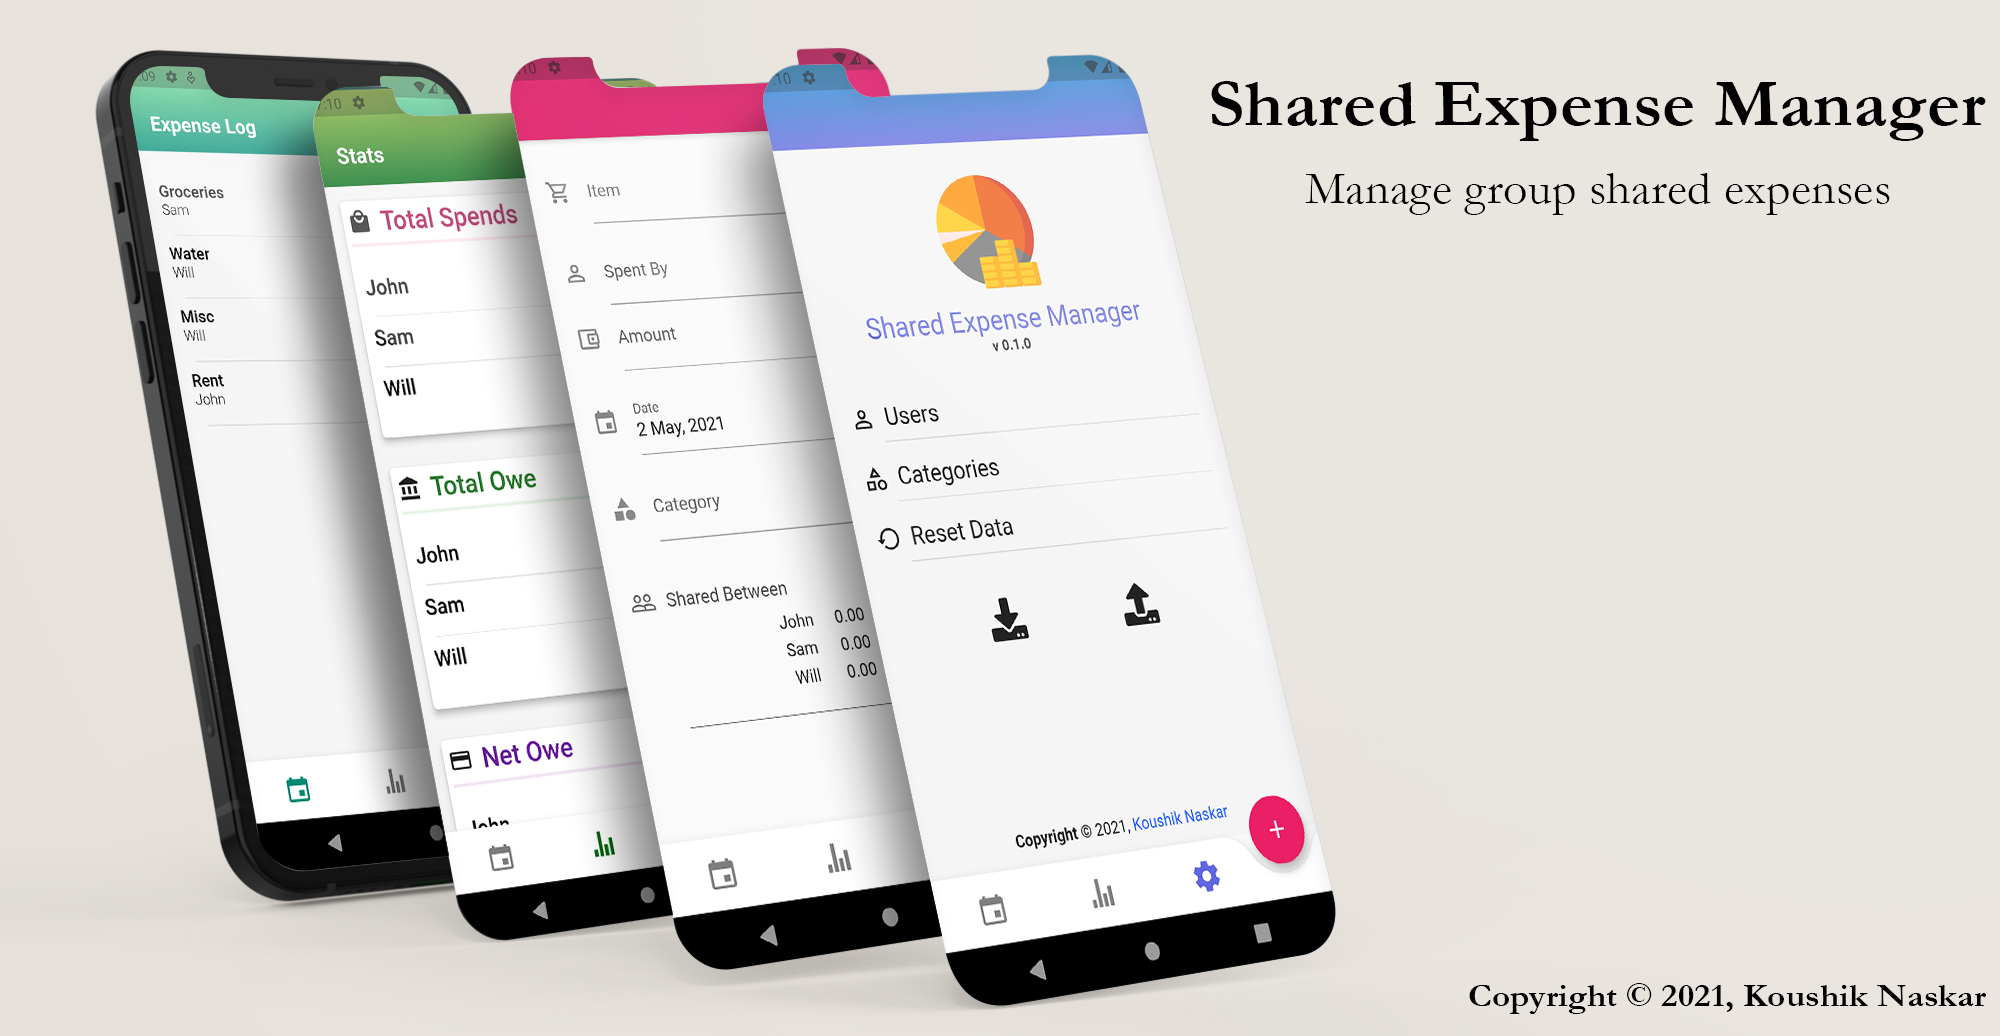
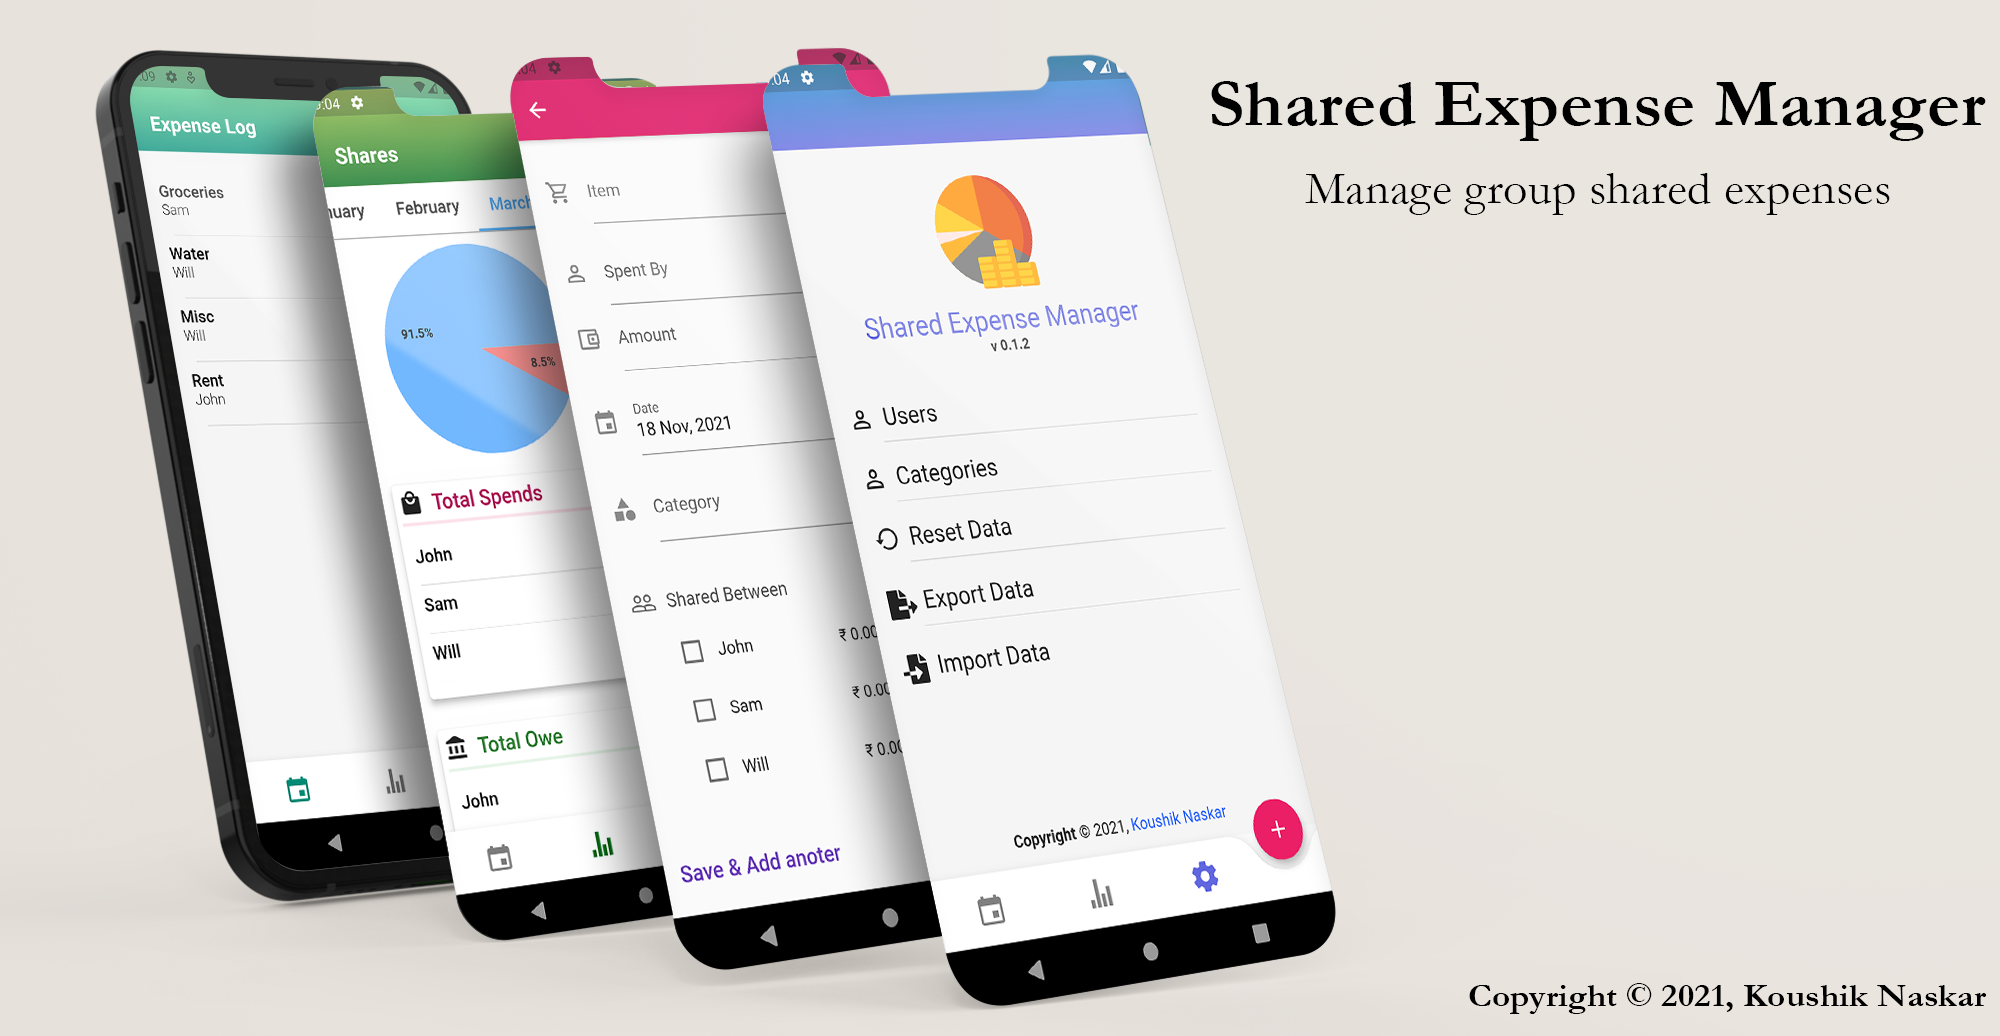
upate screen shot

diff --git a/README.md b/README.md
@@ -6,7 +6,7 @@
 
 
 <p align="center">
-  <a href="#" alt="Version"><img src="https://img.shields.io/badge/Version-0.1.0-brightgreen.svg?style=for-the-badge" /></a>
+  <a href="#" alt="Version"><img src="https://img.shields.io/badge/Version-0.1.2-brightgreen.svg?style=for-the-badge" /></a>
   <a href="https://github.com/Koushikphy/Shared-Expense-Manager/blob/master/LICENSE" alt="Version"><img src="https://img.shields.io/badge/License-MIT-brightgreen.svg?style=for-the-badge" /></a>
   <a href="https://github.com/Koushikphy/Shared-Expense-Manager/releases" alt="Version"><img src="https://img.shields.io/badge/Download-apk-blue?style=for-the-badge" /></a>
 </p>
@@ -24,7 +24,7 @@ Built with [Flutter](https://flutter.dev/) framework, this app can be compiled f
 * **Download** the app from the [release section](https://github.com/Koushikphy/Shared-Expense-Manager/releases).
 * Add list of users and categories in the setting page.
 * Tap on the `+` button to add new expense record.
-* Check the Sharess page for current expenses status.
+* Check the Shares page for current expenses status.
 * Tap on individual record in the log page to edit/delete them.  
 * Save/Load expense record to/from local file from the setting page.
 
